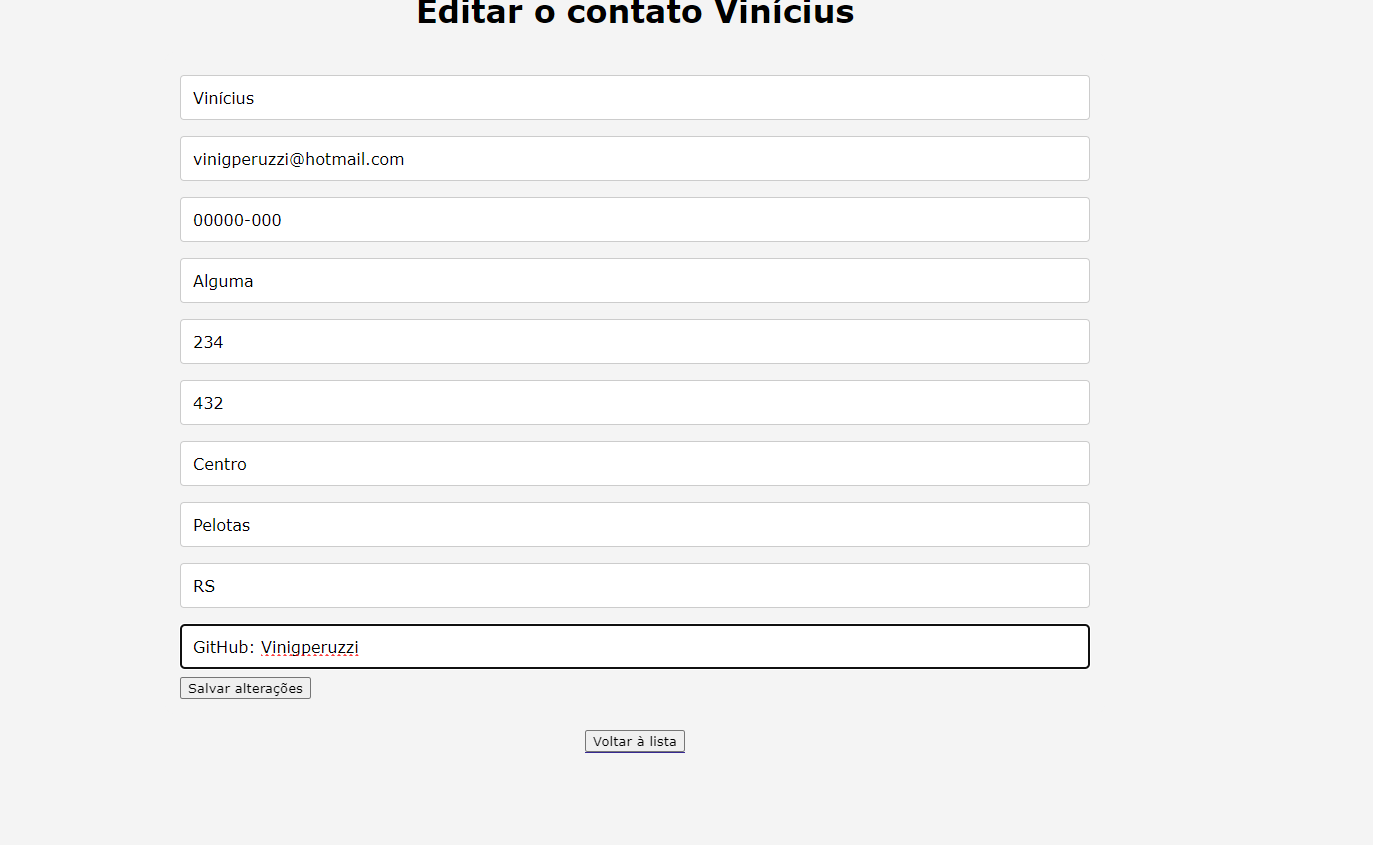
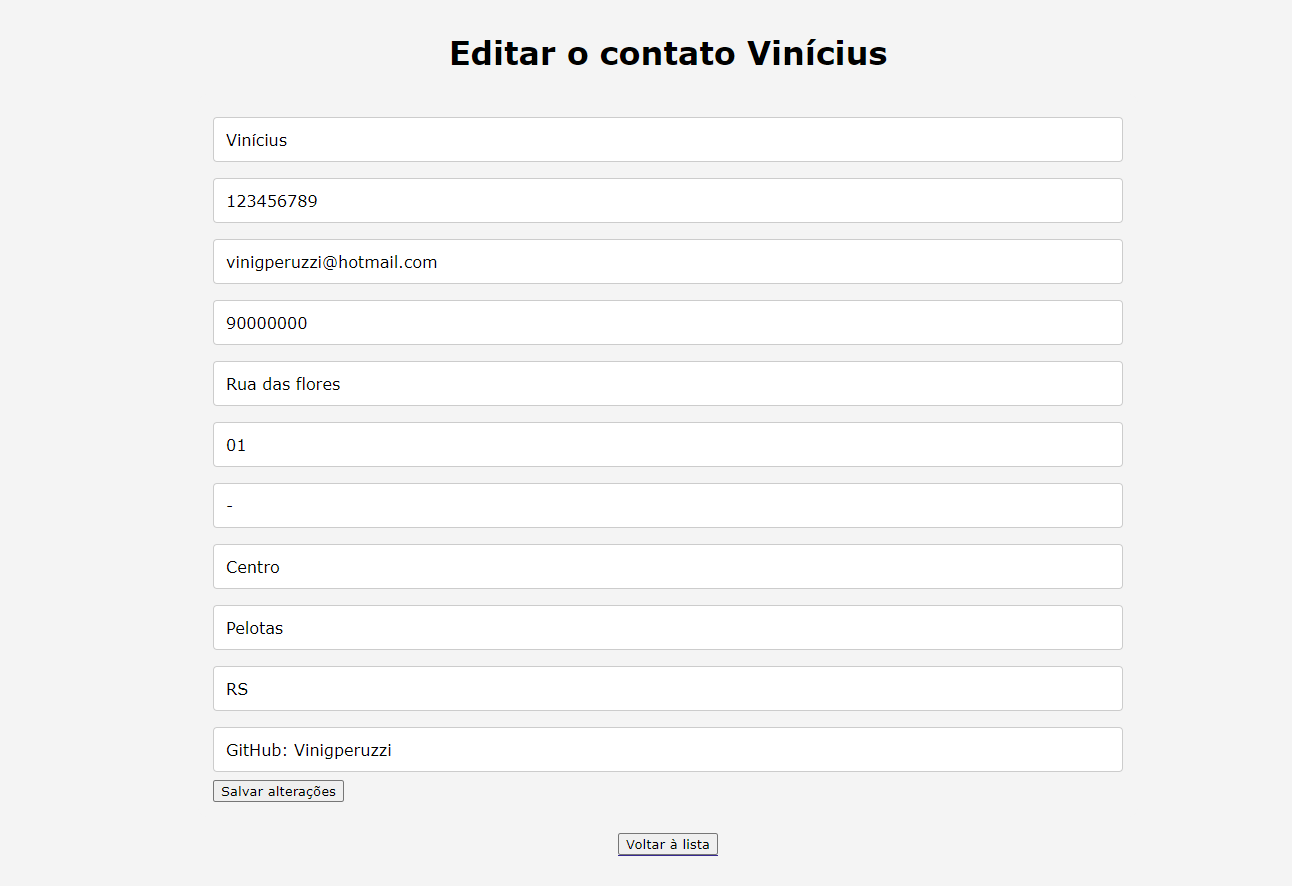
Update: readme Fix: add telefone

diff --git a/resources/views/admin/contacts/index.blade.php b/resources/views/admin/contacts/index.blade.php
@@ -14,14 +14,14 @@
 <table>
     <thead>
         <th>Nome</th>
-        <th>E-mail</th>
+        <th>Telefone</th>
         <th>       </th>
     </thead>
     <tbody>
             @foreach ($contacts as $contact)
                 <tr>
                     <td>{{ $contact->nome }}</td>
-                    <td>{{ $contact->email }}</td>
+                    <td>{{ $contact->telefone }}</td>
                     <td><a href="{{ route('contacts.show', $contact->id) }}"><button>Detalhes</button></a></td>
                 </tr>
             @endforeach

diff --git a/resources/views/admin/contacts/search.blade.php b/resources/views/admin/contacts/search.blade.php
@@ -5,14 +5,14 @@
 <table>
     <thead>
         <th>Nome</th>
-        <th>E-mail</th>
+        <th>Telefone</th>
         <th>       </th>
     </thead>
     <tbody>
             @foreach ($contacts as $contact)
                 <tr>
                     <td>{{ $contact->nome }}</td>
-                    <td>{{ $contact->email }}</td>
+                    <td>{{ $contact->telefone }}</td>
                     <td><a href="{{ route('contacts.show', $contact->id) }}"><button>Detalhes</button></a></td>
                 </tr>
             @endforeach

diff --git a/resources/views/admin/contacts/edit.blade.php b/resources/views/admin/contacts/edit.blade.php
@@ -5,6 +5,7 @@
     @csrf()
     @method('PUT')
     <input type="text" placeholder="Nome" name="nome" value="{{ $contact->nome }}">
+    <input type="text" placeholder="Nome" name="telefone" value="{{ $contact->telefone }}">
     <input type="text" placeholder="E-mail" name="email" value="{{ $contact->email }}">
     <input type="text" placeholder="CEP" name="CEP" value="{{ $contact->CEP }}">
     <input type="text" placeholder="Rua" name="Rua" value="{{ $contact->Rua }}">

diff --git a/resources/views/admin/contacts/create.blade.php b/resources/views/admin/contacts/create.blade.php
@@ -4,6 +4,7 @@
 <form action="{{ route('contacts.store') }}" method="POST">
     @csrf()
     <input type="text" placeholder="Nome" name="nome">
+    <input type="text" placeholder="Telefone" name="telefone">
     <input type="text" placeholder="E-mail" name="email">
     <input type="text" placeholder="CEP" name="CEP">
     <input type="text" placeholder="Rua" name="Rua">

diff --git a/database/migrations/2013_11_30_233853_create_contacts_table.php b/database/migrations/2013_11_30_233853_create_contacts_table.php
@@ -14,6 +14,7 @@ return new class extends Migration
         Schema::create('contacts', function (Blueprint $table) {
             $table->id();
             $table->string('nome');
+            $table->string('telefone');
             $table->string('email');
             $table->string('CEP');
             $table->string('Rua');

diff --git a/resources/views/admin/contacts/show.blade.php b/resources/views/admin/contacts/show.blade.php
@@ -3,6 +3,7 @@
 
 <ul>
     <li>Nome: {{ $contact->nome }}</li>
+    <li>Telefone: {{ $contact->telefone }}</li>
     <li>E-mail: {{ $contact->email }}</li>
     <li>CEP: {{ $contact->CEP }}</li>
     <li>Rua: {{ $contact->Rua }}</li>

diff --git a/app/Http/Controllers/Admin/ContactController.php b/app/Http/Controllers/Admin/ContactController.php
@@ -51,6 +51,7 @@ class ContactController extends Controller
         }
         $contact->update($request->only(
             'nome',
+            'telefone',
             'email',
             'CEP',
             'Rua',

diff --git a/app/Models/Contact.php b/app/Models/Contact.php
@@ -11,6 +11,7 @@ class Contact extends Model
 
     protected $fillable = [
         'nome',
+        'telefone',
         'email',
         'CEP',
         'Rua',

diff --git a/README.md b/README.md
@@ -37,9 +37,9 @@ And then is just navigate between the screens of the system.
 # Screenshots:
 
 ![main Page](./Screenshots/main.png)
+![Creation Page](./Screenshots/create.png)
 ![Edit Page](./Screenshots/edit.png)
-![Creation Page](./Screenshots/insert.png)
-![details Page](./Screenshots/details.png)
+![details Page](./Screenshots/detail.png)
 ![Searching Page](./Screenshots/search.png)
 
 ---
